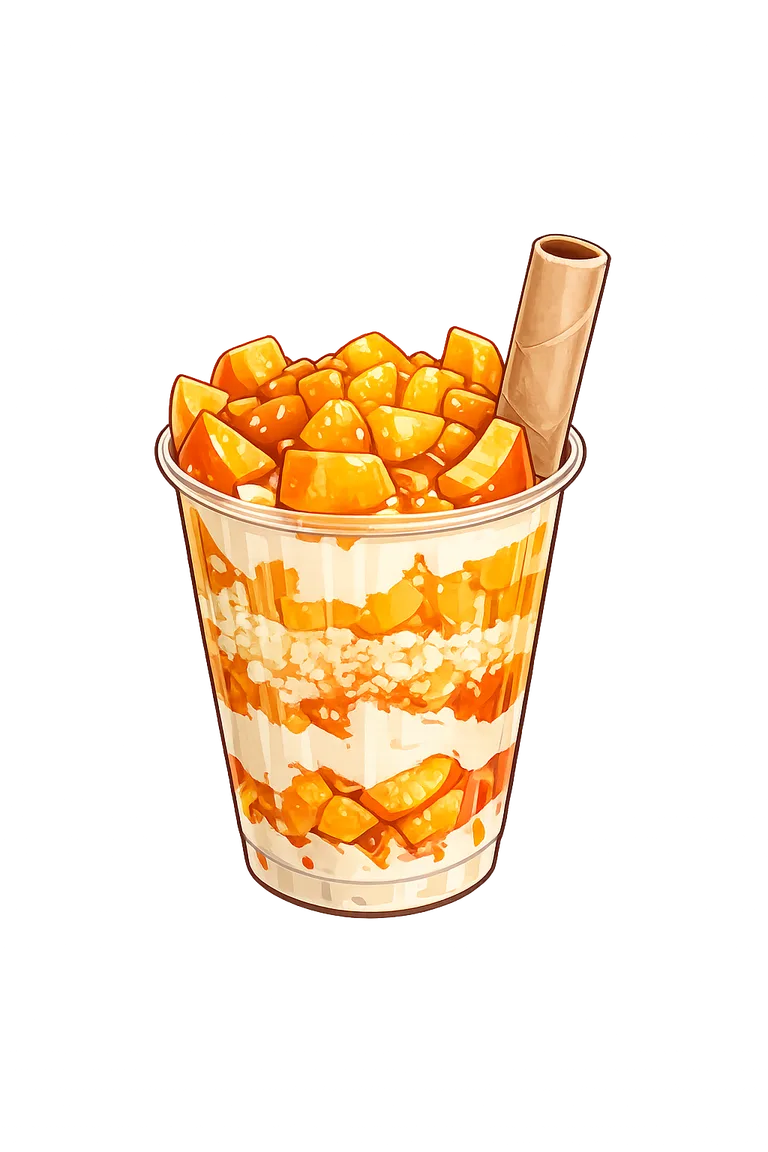
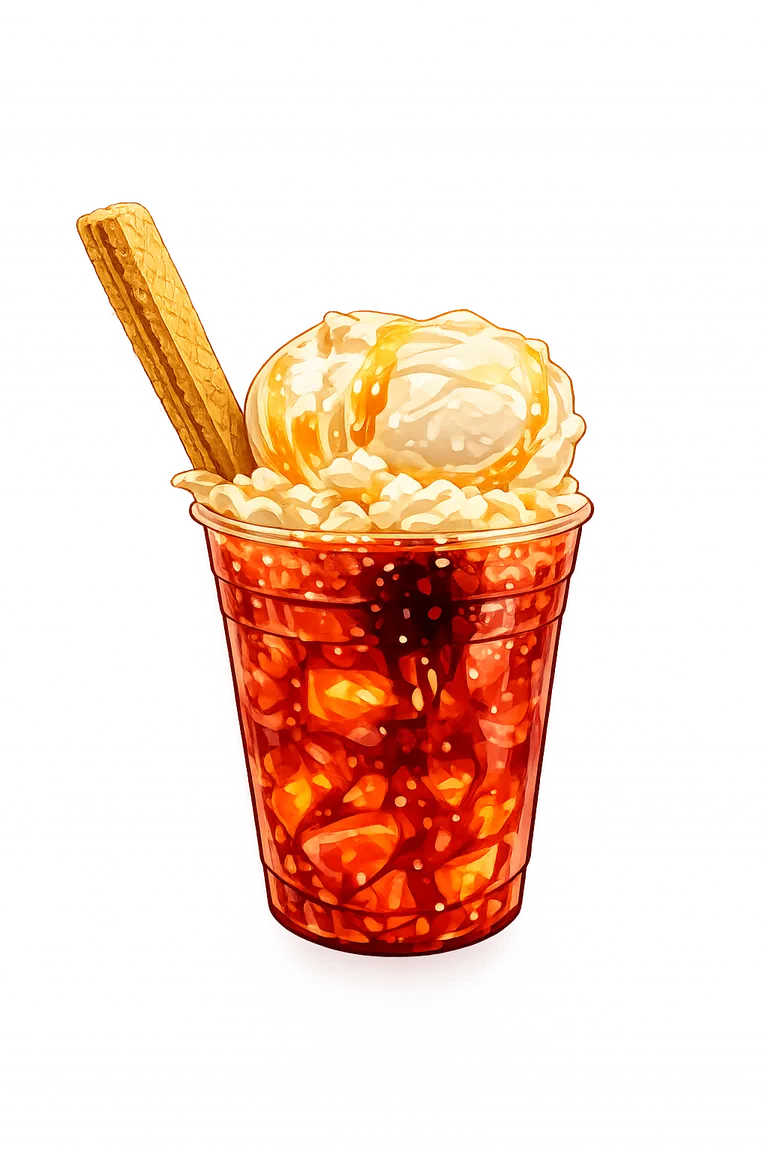
refactor(assets): renombrar imágenes de producto y actualizar referencias
- cup-chocolate.webp → cup-fresas-con-crema.webp
- cup-fresa-helado.webp → cup-duraznos.webp
- Actualizadas referencias en marca.ts, ArmadorCTA, Hero, MenuSection

Changed region(s): [[0.0938, 0.1562, 0.8125, 0.8438]]

diff --git a/src/domain/menu/marca.ts b/src/domain/menu/marca.ts
@@ -55,7 +55,7 @@ export const ESPECIALES: Especial[] = [
     id: "salpiconada",
     nombre: "Salpiconada",
     desc: "Lecherita, jugo de frutas y una mezcla de piña, mango y papaya.",
-    img: "/assets/cup-fresa-helado.webp",
+    img: "/assets/cup-salpiconada.webp",
     precios: [
       { label: "12 oz", precio: 8000 },
       { label: "Con queso o helado", precio: 12000 },
@@ -67,7 +67,7 @@ export const ESPECIALES: Especial[] = [
     id: "duraznos",
     nombre: "Duraznos con crema",
     desc: "Duraznos en almíbar bañados en crema de la casa.",
-    img: "/assets/cup-salpiconada.webp",
+    img: "/assets/cup-duraznos.webp",
     precios: [
       { label: "12 oz", precio: 18000 },
       { label: "16 oz", precio: 22000 },

diff --git a/src/sections/Hero.tsx b/src/sections/Hero.tsx
@@ -6,9 +6,9 @@ const SALUDO = "¡Hola D'Fruta Madre! 🍓 Quiero pedir fresas con crema a domic
 
 const DECOS = [
   { img: "/assets/merengon.webp", className: "left-[2%] top-[8%] w-20 -rotate-12 min-[940px]:w-28", delay: "0s", duration: "5.5s" },
-  { img: "/assets/cup-fresa-helado.webp", className: "right-[3%] top-[6%] w-16 rotate-6 min-[940px]:w-24", delay: "1.2s", duration: "4.5s" },
+  { img: "/assets/cup-fresas-con-crema.webp", className: "right-[3%] top-[6%] w-16 rotate-6 min-[940px]:w-24", delay: "1.2s", duration: "4.5s" },
   { img: "/assets/oblea.webp", className: "left-[6%] bottom-[6%] w-18 rotate-12 min-[940px]:w-26", delay: "2s", duration: "6s" },
-  { img: "/assets/cup-salpiconada.webp", className: "right-[4%] bottom-[12%] w-16 -rotate-6 min-[940px]:w-24", delay: "3s", duration: "5s" },
+  { img: "/assets/cup-duraznos.webp", className: "right-[4%] bottom-[12%] w-16 -rotate-6 min-[940px]:w-24", delay: "3s", duration: "5s" },
 ];
 
 interface HeroProps {

diff --git a/src/sections/ArmadorCTA.tsx b/src/sections/ArmadorCTA.tsx
@@ -42,7 +42,7 @@ export function ArmadorCTA({ onOpenArmador }: ArmadorCTAProps) {
           />
           <img
             className="relative z-2 w-[clamp(210px,58vw,290px)] drop-shadow-[0_20px_26px_rgb(0_0_0/0.22)] animate-floaty"
-            src="/assets/cup-chocolate.webp"
+            src="/assets/cup-fresas-con-crema.webp"
             alt="Fresas con crema personalizadas"
           />
           {[

diff --git a/src/sections/MenuSection.tsx b/src/sections/MenuSection.tsx
@@ -132,7 +132,7 @@ export function MenuSection() {
               >
                 <div className="grid place-items-center aspect-square bg-blush rounded-media overflow-hidden mb-2.5">
                   <img
-                    src="/assets/cup-chocolate.webp"
+                    src="/assets/cup-fresas-con-crema.webp"
                     alt=""
                     className="w-[78%] h-[78%] object-contain drop-shadow-[0_8px_12px_rgb(200_70_95/0.18)]"
                     style={{ transform: `scale(${0.7 + (escalaTamano[t.id] ?? 1) * 0.28})` }}